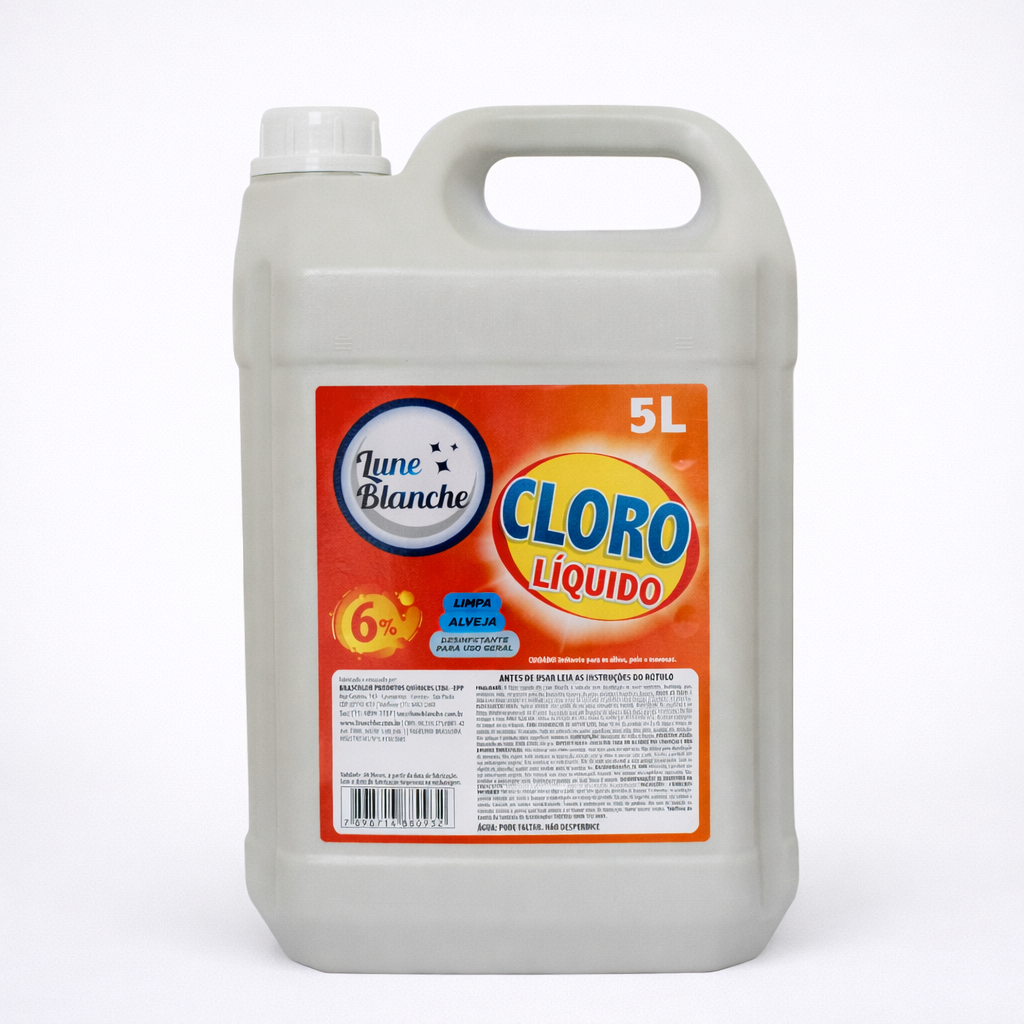
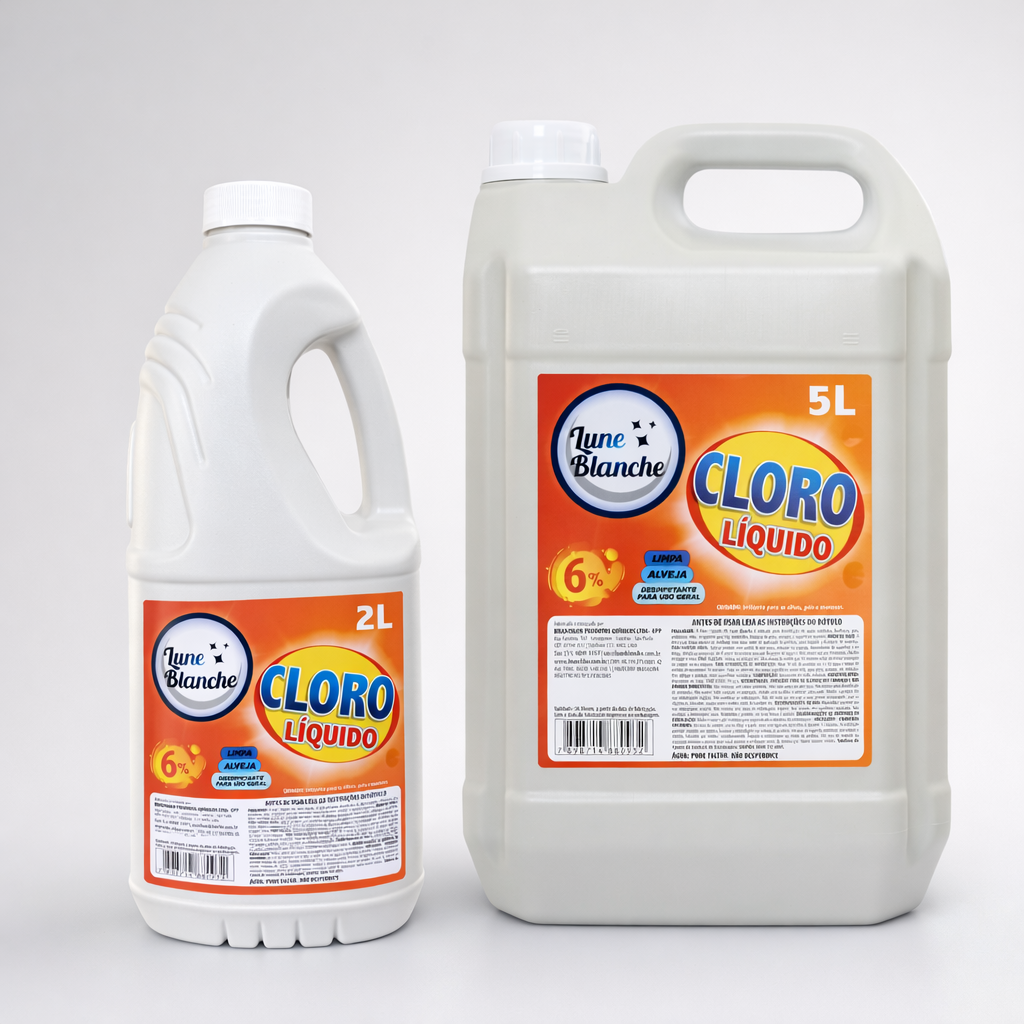
att

diff --git a/src/pages/NossosProdutos/produtos.ts b/src/pages/NossosProdutos/produtos.ts
@@ -1,5 +1,6 @@
 import { categoriasProduto } from "./catalogo";
 import type { CategoriaProduto } from "./catalogo";
+import { formatarNomeProduto } from "./formatarNomeProduto";
 import { fragrancias } from "./fragrancias";
 import { materiasPrimas } from "./materiasPrimas";
 export type ProdutoMarketplaceNome = "shopee" | "mercadoLivre";
@@ -51,7 +52,7 @@ const criarProduto = (
   informacoes: string[] = [],
   marketplaces?: ProdutoMarketplaces,
 ): ProdutoMetadata => ({
-  nome,
+  nome: formatarNomeProduto(nome),
   categoria,
   descricao,
   destaques,
@@ -475,11 +476,11 @@ const produtosMetadata: Record<string, ProdutoMetadata> = {
   cloro: criarProduto(
     "Cloro líquido 6% Lune Blanche",
     "Linha Cloro",
-    "Cloro líquido com cloro ativo 6%, voltado para higienização de pisos, banheiros, quintais e outras áreas laváveis que exigem limpeza mais pesada.",
+    "Cloro líquido com cloro ativo 6%, voltado para higienização de pisos, banheiros, quintais e outras áreas laváveis que exigem limpeza mais pesada, disponível em embalagens de 2 L e 5 L.",
     [
       "Cloro ativo 6% para rotinas de limpeza intensa.",
+      "Disponível em embalagens de 2 L e 5 L.",
       "Apoia a remoção de sujeira, odores e limo em áreas laváveis.",
-      "Produto encontrado publicamente em embalagens de 5 L e 10 L.",
     ],
     [
       "Banheiros, pisos, quintais e áreas externas laváveis.",
@@ -1244,16 +1245,18 @@ const formatarChaveProduto = (caminhoArquivo: string) =>
     .replace(/[\u0300-\u036f]/g, "") ?? caminhoArquivo;
 
 const formatarNomePadrao = (chaveProduto: string) =>
-  chaveProduto
-    .split("-")
-    .map((parte) => {
-      if (parte.length <= 2 || /\d/.test(parte)) {
-        return parte.toUpperCase();
-      }
+  formatarNomeProduto(
+    chaveProduto
+      .split("-")
+      .map((parte) => {
+        if (parte.length <= 2 || /\d/.test(parte)) {
+          return parte.toUpperCase();
+        }
 
-      return parte.charAt(0).toUpperCase() + parte.slice(1);
-    })
-    .join(" ");
+        return parte.charAt(0).toUpperCase() + parte.slice(1);
+      })
+      .join(" "),
+  );
 
 const produtosComImagem: Produto[] = Object.entries(imagensProdutos)
   .map(([caminhoArquivo, imagem]) => {

diff --git a/src/pages/NossosProdutos/formatarNomeProduto.ts b/src/pages/NossosProdutos/formatarNomeProduto.ts
@@ -1,0 +1,59 @@
+const palavrasMinusculas = new Set([
+  "a",
+  "ao",
+  "aos",
+  "as",
+  "à",
+  "às",
+  "com",
+  "da",
+  "das",
+  "de",
+  "do",
+  "dos",
+  "e",
+  "em",
+  "na",
+  "nas",
+  "no",
+  "nos",
+  "o",
+  "os",
+  "para",
+  "por",
+  "sem",
+  "sob",
+]);
+
+const formatarPalavra = (palavra: string, indicePalavra: number) => {
+  const palavraMinuscula = palavra.toLocaleLowerCase("pt-BR");
+  const ehSigla =
+    palavra.length > 1 &&
+    palavra === palavra.toLocaleUpperCase("pt-BR") &&
+    /\p{L}/u.test(palavra);
+
+  if (ehSigla) {
+    return palavra;
+  }
+
+  if (indicePalavra > 0 && palavrasMinusculas.has(palavraMinuscula)) {
+    return palavraMinuscula;
+  }
+
+  return (
+    palavraMinuscula.charAt(0).toLocaleUpperCase("pt-BR") +
+    palavraMinuscula.slice(1)
+  );
+};
+
+export const formatarNomeProduto = (nome: string) => {
+  let indicePalavra = 0;
+
+  return nome.replace(/\p{L}+/gu, (palavra) => {
+    const palavraFormatada = formatarPalavra(palavra, indicePalavra);
+
+    indicePalavra += 1;
+
+    return palavraFormatada;
+  });
+};

diff --git a/src/pages/QuemSomos/index.tsx b/src/pages/QuemSomos/index.tsx
@@ -134,7 +134,7 @@ const QuemSomosPage = () => {
               </TitleAndSubtitle>
               <p className="texto">{resellerText}</p>
               <QuerRevenderButtons>
-                <Button href="https://wa.me/5511993521508">Quero revender</Button>
+                <Button href="https://wa.me/5511993521508" target="_blank">Quero revender</Button>
                 <Link className="botao" to="/nossos-produtos">
                   Comprar agora
                 </Link>

diff --git a/src/pages/NossosProdutos/materiasPrimas.ts b/src/pages/NossosProdutos/materiasPrimas.ts
@@ -1,4 +1,5 @@
 import type { CategoriaProduto, Produto, ProdutoInfoSection } from "./produtos";
+import { formatarNomeProduto } from "./formatarNomeProduto";
 
 const categoriaMateriaPrima: CategoriaProduto = "Matérias-primas";
 
@@ -27,7 +28,7 @@ const criarMateriaPrima = ({
   cuidados = [],
 }: MateriaPrimaConfig): Produto => ({
   chave,
-  nome,
+  nome: formatarNomeProduto(nome),
   descricao,
   destaques,
   categoria: categoriaMateriaPrima,

diff --git a/src/pages/NossosProdutos/fragrancias.ts b/src/pages/NossosProdutos/fragrancias.ts
@@ -1,4 +1,5 @@
 import type { CategoriaProduto, Produto, ProdutoInfoSection } from "./produtos";
+import { formatarNomeProduto } from "./formatarNomeProduto";
 
 const categoriaFragrancia: CategoriaProduto = "Fragrâncias";
 
@@ -25,7 +26,7 @@ const criarFragrancia = ({
   informacoes,
 }: FragranciaConfig): Produto => ({
   chave,
-  nome,
+  nome: formatarNomeProduto(nome),
   descricao,
   destaques,
   categoria: categoriaFragrancia,

diff --git a/src/pages/Home/sections/Hero/index.tsx b/src/pages/Home/sections/Hero/index.tsx
@@ -65,7 +65,7 @@ const Hero = () => {
               para revenda.
             </p>
             <ButtonDiv>
-              <Button href="https://wa.me/5511993521508">Quero revender</Button>
+              <Button href="https://wa.me/5511993521508" target="_blank">Quero revender</Button>
               <Link className="botao" to="/nossos-produtos">Comprar agora</Link>
             </ButtonDiv>
           </HeroCard>

diff --git a/src/data/navigation.ts b/src/data/navigation.ts
@@ -28,10 +28,6 @@ export const navigationLinks: NavigationLink[] = [
     {
         to: "/seja-parceiro",
         label: "Seja nosso parceiro"
-    },
-    {
-        to: `/#${homeContactSectionId}`,
-        label: "Contato"
     }
 ];
 
